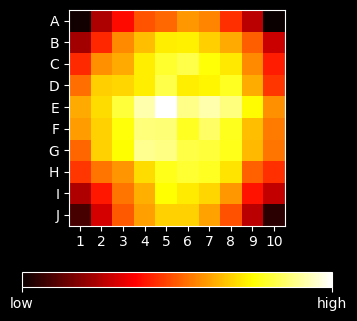
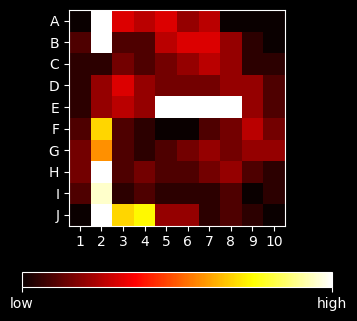
changed ship loading order

diff --git a/player.py b/player.py
@@ -7,7 +7,7 @@ class Player():
             difficulty,
             boardwidth,
             boardheight,
-            samplesize = 10000):
+            samplesize = 20000):
         
         #from inputs
         self.playerid = playerid
@@ -30,9 +30,10 @@ class Player():
 
     def loadboard(self,board):
         for i in range(len(self.ships)):
-            self.ships[len(self.ships) - i - 1][board == i+1] = 1
+            self.ships[i][board == i+1] = 1
 
-    def getshipplacement(self,board,shiplen):
+    def getshipplacement(self,board,shiplen,seed = 0):
+        np.random.seed(seed)
         #Random player
         if self.difficulty >= 0:
             orientation = np.random.randint(4)
@@ -124,6 +125,7 @@ class Player():
                 for (shipconfig, seen_ships) in zip(self.allshipconfigs, self.revealedships)]
         
         samples = self.sample_n_ships(all_compatible_configs,self._revealed())
+        #samples = self.sample_compatible_ships(all_compatible_configs,self._revealed())
         return samples.sum(axis = 1).mean(axis = 0)
 
     def sample_n_ships(self,possible_ships,revealed):
@@ -134,6 +136,7 @@ class Player():
 
     def get_samples(self, possible_ships,revealed):
         randnumgen = np.random.default_rng()
+        print([ships.shape for ships in possible_ships])
         samples = np.stack([randnumgen.choice(ships,
                                              size = self.samplesize,
                                              shuffle = False)
@@ -152,7 +155,10 @@ class Player():
 
     def sample_ships(self,possible_ships):
         empty = np.ma.masked_all_like(self.shipconfigs[0][0])
-        generated_compatible_ships = self.generate_compatible_ships(possible_ships,empty)
+        return self.sample_compatible_ships(possible_ships,empty)
+    
+    def sample_compatible_ships(self,possible_ships,revealed):
+        generated_compatible_ships = self.generate_compatible_ships(possible_ships,revealed)
         return np.array([x for _,x in zip(range(self.samplesize),generated_compatible_ships)])
 
     def validate_samples(self,samples, ship_axis = 1, board_axis = (-2,-1)):
@@ -171,7 +177,7 @@ class Player():
         x,y = np.indices((self.boardwidth,self.boardwidth))[:,:-shipsize+1]
         return 1 * (x <= y) & (y < x + shipsize)
 
-    def updaterevealed(self,retval,field):
+    def updaterevealed(self,retval,field,make_heatmap = True):
         row,col = field
         prev_sunk = self._sunk()
         next_ships = self._revealed_ships().copy()
@@ -188,6 +194,11 @@ class Player():
             if sunk is not None:
                 self.revealedships[sunk,row,col] = 1
 
+        print("revealedships",self.revealedships)
+        print("revealed",self._revealed())
+        print("sunk",self._sunk())
+        print("_revealed_ships",self._revealed_ships())
+
         #calculate guess score
         guess_prob = self.posterior[row,col]
         attacking_score = (np.searchsorted(np.sort(self.posterior[~self.posterior.mask].flatten()),
@@ -195,7 +206,8 @@ class Player():
         self.attacking_scores.append(attacking_score)
 
         self.updateposterior()
-        self.generateheatmap()
+        if make_heatmap:
+            self.generateheatmap()
 
     #Some dynamic properties
     def _is_solved(self):

diff --git a/battleship.py b/battleship.py
@@ -17,8 +17,8 @@ numships = 5
 ships = [5,4,3,3,2]
 boardwidth = 10
 boardheight = 10
-screenwidth = 900
-screenheight = 600
+screenwidth = 1600
+screenheight = 900
 squarewidth = screenwidth//80*3
 squareheight = squarewidth
 separation = 3
@@ -411,8 +411,7 @@ while gameOn:
         aiplayer = Player(2,
                           2,
                           boardwidth,
-                          boardheight,
-                          1000)
+                          boardheight)
 
         ships = [5,4,3,3,2]
         nummoves = 0
@@ -426,7 +425,7 @@ while gameOn:
             retval = board.board[row,col]
             if retval != 0:
                 ships[retval-1] -= 1
-            aiplayer.updaterevealed(retval,(row,col))
+            aiplayer.updaterevealed(retval,(row,col),make_heatmap = False)
             nummoves += 1
         
         #delete ai player
@@ -512,11 +511,13 @@ while gameOn:
                     #set up board
                     board = boards[0]
                     shipids = [0,1,2,3,4]
+                    count = 0
                     while len(shipids)>0:
                         shiplen = ships[shipids[0]]
-                        field,orientation = players[1].getshipplacement(board,shiplen)
+                        field,orientation = players[1].getshipplacement(board,shiplen,seed = count)
                         if board.placeship(shipids[0],field,orientation):
                             shipids.pop(0)
+                        count += 1
 
                     #remove hovercolour change
                     for board in boards:
